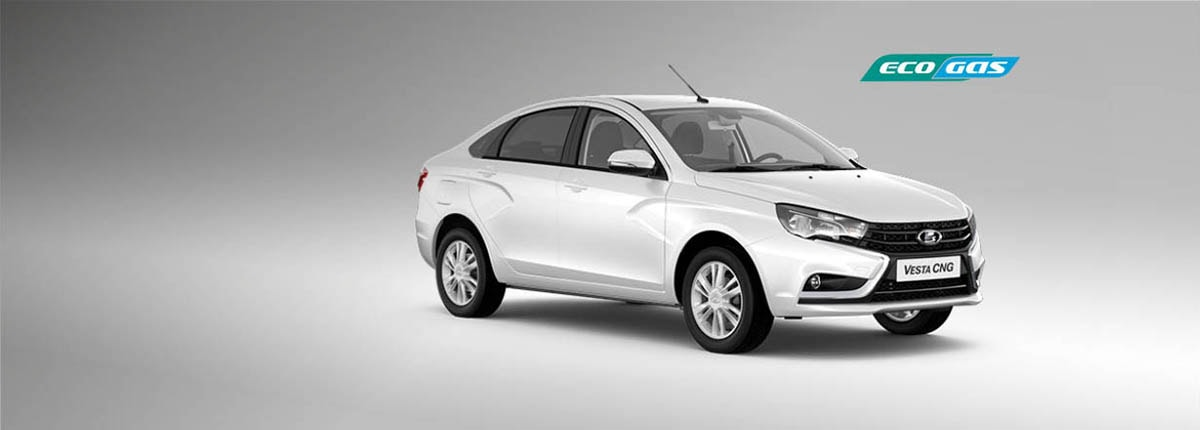
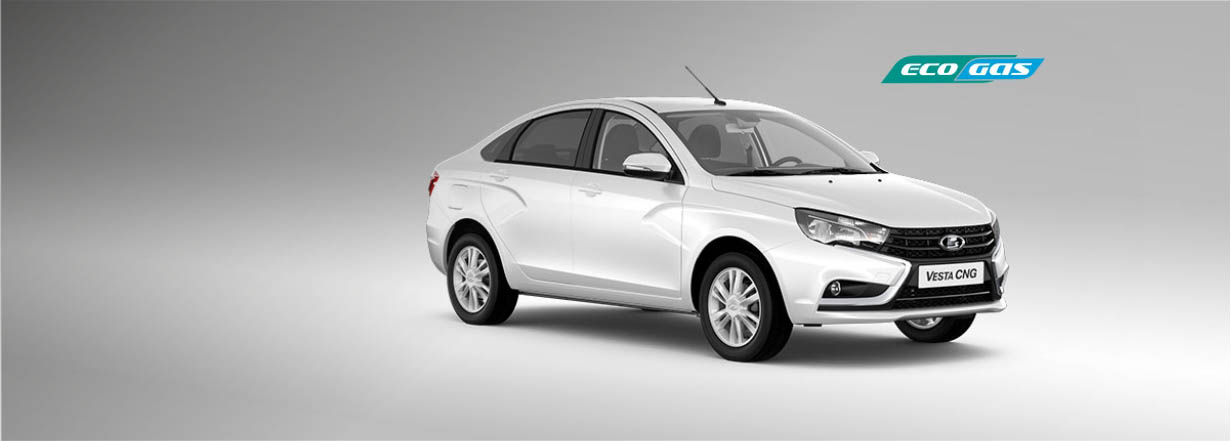
#model #vesta-cng Добавил фото а баннер

diff --git a/resources/sass/style.scss b/resources/sass/style.scss
@@ -1541,7 +1541,7 @@ footer {
         }
 
         &.vesta_cng {
-            background: url(/build/images/slider/full/vesta/lada_vesta_sw_cross.png) no-repeat center center;
+            background: url(/build/images/slider/full/vesta/lada_vesta_cng.jpg) no-repeat center center;
             background-size: cover;
         }
 
@@ -1625,6 +1625,11 @@ footer {
 
             &.vesta_sw_cross {
                 background: linear-gradient(117deg, rgba(0,0,0,0.7) 0%, rgba(0,0,0,0.5) 13%, rgba(0,0,0,0) 44%), url(/build/images/slider/full/vesta/desktop/lada_vesta_sw_cross.jpg) no-repeat 50% -2px;
+                background-size: cover;
+            }
+
+            &.vesta_cng {
+                background: linear-gradient(117deg, rgba(0,0,0,0.7) 0%, rgba(0,0,0,0.5) 13%, rgba(0,0,0,0) 44%), url(/build/images/slider/full/vesta/desktop/lada_vesta_cng.jpg) no-repeat 50% -2px;
                 background-size: cover;
             }
 
